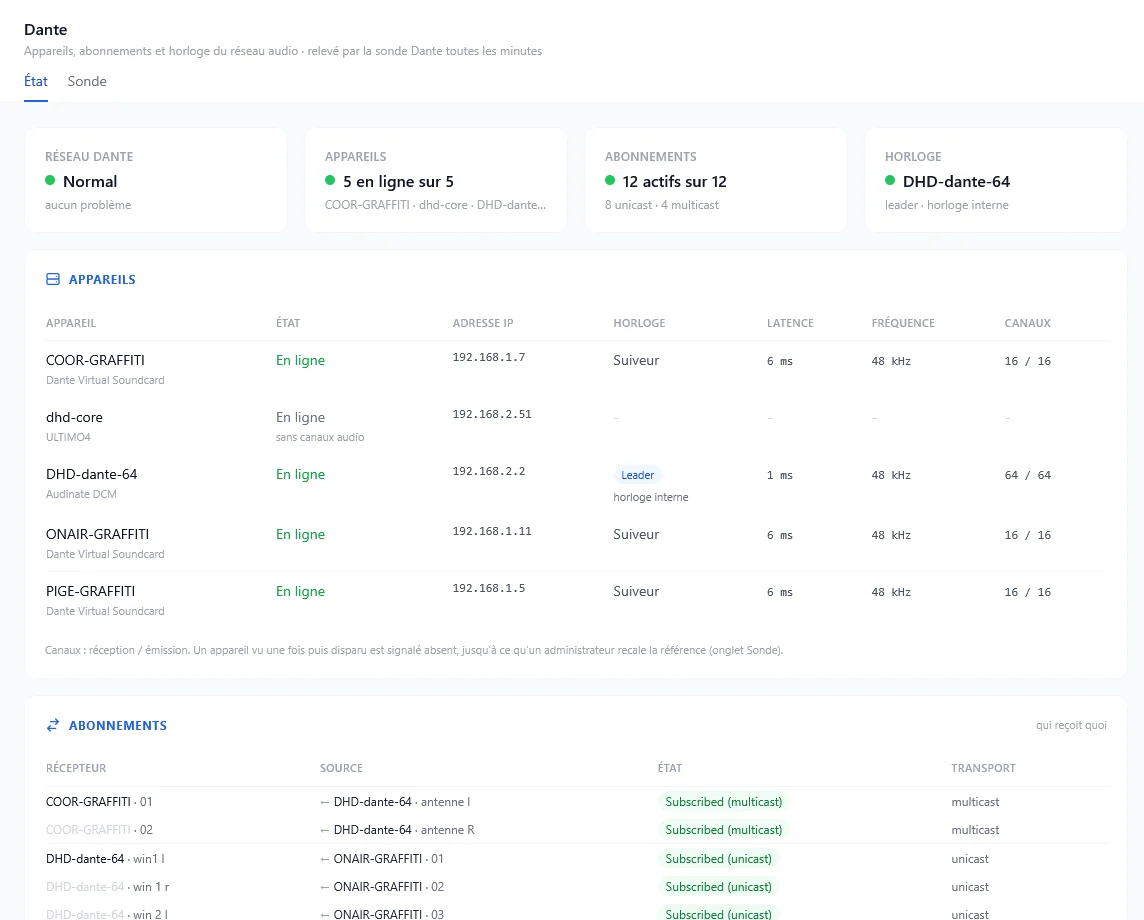
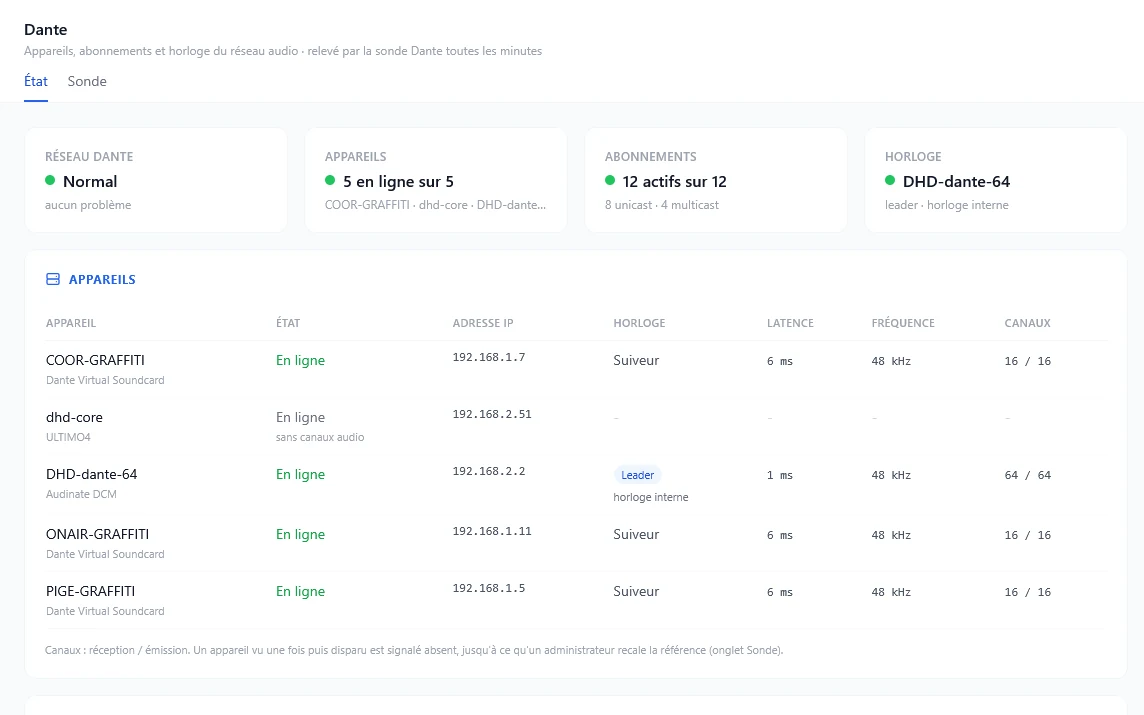
docs: project website and LICENSE file

diff --git a/site/index.html b/site/index.html
@@ -108,13 +108,26 @@
   .alerts p { margin: 0; }
 
   /* ── Galerie ── */
-  .gallery { display: grid; grid-template-columns: 1.15fr 1fr; gap: 28px; align-items: start; }
-  .gallery figure { margin: 0; }
-  .gallery img { border-radius: var(--radius-s); border: 1px solid var(--line); }
-  .gallery figcaption { color: var(--muted); font-size: .95rem; margin-top: 10px; }
-  .gallery figcaption strong { color: var(--ink); font-weight: 650; }
-  .stack { display: grid; gap: 28px; }
-  @media (max-width: 860px) { .gallery { grid-template-columns: 1fr; } }
+  /* ── Carrousel : une capture à la fois, choisie par onglet ou flèches ── */
+  .tabs { display: flex; flex-wrap: wrap; gap: 8px; margin: 0 0 16px; }
+  .tabs button { font: inherit; font-size: .95rem; font-weight: 600; color: var(--muted); background: var(--surface);
+    border: 1px solid var(--line); border-radius: 999px; padding: 7px 16px; cursor: pointer; }
+  .tabs button:hover { color: var(--ink); border-color: var(--tick-major); }
+  .tabs button[aria-selected="true"] { background: var(--accent); border-color: var(--accent); color: #fff; }
+  .carousel { position: relative; }
+  .slide { display: none; margin: 0; }
+  .slide.on { display: block; }
+  .slide a { display: block; border-radius: var(--radius-l); overflow: hidden; border: 1px solid var(--line); background: #fff;
+    box-shadow: 0 24px 60px rgba(15,23,42,.12); aspect-ratio: 16 / 10; }
+  .slide img { width: 100%; height: 100%; object-fit: cover; object-position: top left; }
+  .slide figcaption { color: var(--muted); font-size: .97rem; margin-top: 14px; }
+  .slide figcaption strong { color: var(--ink); font-weight: 650; }
+  .arrow { position: absolute; top: calc(50% - 40px); width: 44px; height: 44px; border-radius: 50%; border: 1px solid var(--line);
+    background: rgba(255,255,255,.95); color: var(--ink); font-size: 1.3rem; line-height: 1; cursor: pointer;
+    box-shadow: 0 6px 18px rgba(15,23,42,.12); display: grid; place-items: center; }
+  .arrow:hover { border-color: var(--tick-major); }
+  .arrow.prev { left: -22px; } .arrow.next { right: -22px; }
+  @media (max-width: 860px) { .arrow.prev { left: 6px; } .arrow.next { right: 6px; } }
 
   /* ── Agent ── */
   .agent { display: grid; grid-template-columns: 1fr 1fr; gap: 40px; align-items: start; }
@@ -139,7 +152,7 @@
   pre .c { color: #94a3b8; }
   @media (max-width: 860px) { .install { grid-template-columns: 1fr; } }
 
-  .install > *, .agent > *, .gallery > *, .path > * { min-width: 0; }   /* le bloc de commandes défile au lieu d'élargir la page */
+  .install > *, .agent > *, .path > * { min-width: 0; }   /* le bloc de commandes défile au lieu d'élargir la page */
   footer { margin: 110px 0 0; padding: 30px 0 46px; border-top: 1px solid var(--line); color: var(--muted); font-size: .92rem; }
   footer p { margin: 0 0 6px; }
   footer a { color: var(--ink); }
@@ -221,27 +234,29 @@
     </div>
   </section>
 
-  <section aria-labelledby="t-dante">
-    <h2 id="t-dante"><span lang="fr">Le réseau Dante, enfin visible sans Dante Controller.</span><span lang="en">The Dante network, visible without Dante Controller.</span></h2>
-    <p class="intro">
-      <span lang="fr">Un PC du studio lit le réseau en lecture seule avec la bibliothèque libre netaudio et envoie l'état à BL-RMO. Rien à brancher sur le réseau audio, rien à configurer sur les appareils.</span>
-      <span lang="en">A studio PC reads the network, read-only, with the open-source netaudio library and sends its state to BL-RMO. Nothing to plug into the audio network, nothing to set up on the devices.</span>
-    </p>
-    <div class="gallery">
-      <figure>
-        <img src="img/dante.webp" width="1144" height="920" loading="lazy" alt="Page Dante : cinq appareils en ligne, douze abonnements actifs, horloge DHD-dante-64 leader">
-        <figcaption><strong><span lang="fr">Appareils et abonnements.</span><span lang="en">Devices and subscriptions.</span></strong> <span lang="fr">Un appareil ou une route qui disparaît est signalé.</span><span lang="en">A device or route that disappears is flagged.</span></figcaption>
+  <section aria-labelledby="t-pages">
+    <h2 id="t-pages"><span lang="fr">Une page par domaine, toujours à jour.</span><span lang="en">One page per domain, always up to date.</span></h2>
+    <p class="intro"><span lang="fr">La chaîne de diffusion, le réseau Dante et le parc ont chacun leur page, avec leur état, leur journal et leurs alertes. Cliquez sur une capture pour l'agrandir.</span><span lang="en">The broadcast chain, the Dante network and the assets each have their own page, with status, log and alerts. Click a screenshot to enlarge it.</span></p>
+    <div class="tabs" role="tablist" aria-label="Captures">
+      <button type="button" role="tab" id="tab-chain" aria-controls="slide-chain" aria-selected="true"><span lang="fr">Chaîne</span><span lang="en">Chain</span></button>
+      <button type="button" role="tab" id="tab-dante" aria-controls="slide-dante" aria-selected="false" tabindex="-1">Dante</button>
+      <button type="button" role="tab" id="tab-park" aria-controls="slide-park" aria-selected="false" tabindex="-1"><span lang="fr">Parc</span><span lang="en">Assets</span></button>
+    </div>
+    <div class="carousel">
+      <figure class="slide on" id="slide-chain" role="tabpanel" aria-labelledby="tab-chain">
+        <a href="img/chain.webp" target="_blank" rel="noopener"><img src="img/chain.webp" width="1470" height="919" alt="Synoptique de la chaîne : studio, faisceau 5 GHz, pylône et réception FM, tous les appareils en vert"></a>
+        <figcaption><strong><span lang="fr">Chaîne de diffusion.</span><span lang="en">Broadcast chain.</span></strong> <span lang="fr">Du studio à l'antenne, chaque appareil et chaque liaison, son état et depuis quand.</span><span lang="en">From studio to air, every device and every link, its state and since when.</span></figcaption>
       </figure>
-      <div class="stack">
-        <figure>
-          <img src="img/dante-levels.webp" width="1144" height="920" loading="lazy" alt="Niveaux Dante : sorties antenne et PGM 2 à -1 dB, entrées win 1 avec signal, autres canaux muets">
-          <figcaption><strong><span lang="fr">Niveaux par canal.</span><span lang="en">Per-channel levels.</span></strong> <span lang="fr">Pour voir d'un coup d'œil si un canal porte du signal.</span><span lang="en">To see at a glance whether a channel carries signal.</span></figcaption>
-        </figure>
-        <figure>
-          <img src="img/park.webp" width="1144" height="600" loading="lazy" alt="Page Parc : trois PC de production allumés, processeur et disques">
-          <figcaption><strong><span lang="fr">Les PC du studio.</span><span lang="en">Studio PCs.</span></strong> <span lang="fr">Allumé depuis quand, processeur, disques.</span><span lang="en">On since when, processor, disks.</span></figcaption>
-        </figure>
-      </div>
+      <figure class="slide" id="slide-dante" role="tabpanel" aria-labelledby="tab-dante">
+        <a href="img/dante.webp" target="_blank" rel="noopener"><img src="img/dante.webp" width="1144" height="715" loading="lazy" alt="Page Dante : cinq appareils en ligne, douze abonnements actifs, horloge DHD-dante-64 leader"></a>
+        <figcaption><strong>Dante.</strong> <span lang="fr">Appareils, abonnements, horloge et niveaux par canal, lus en lecture seule par netaudio depuis un PC du studio. Rien à configurer sur les appareils.</span><span lang="en">Devices, subscriptions, clock and per-channel levels, read-only through netaudio from a studio PC. Nothing to set up on the devices.</span></figcaption>
+      </figure>
+      <figure class="slide" id="slide-park" role="tabpanel" aria-labelledby="tab-park">
+        <a href="img/park.webp" target="_blank" rel="noopener"><img src="img/park.webp" width="1144" height="715" loading="lazy" alt="Page Parc : trois PC de production allumés, NAS normal, site web en ligne"></a>
+        <figcaption><strong><span lang="fr">Parc.</span><span lang="en">Assets.</span></strong> <span lang="fr">PC du studio, NAS et sites web : allumé depuis quand, processeur, disques.</span><span lang="en">Studio PCs, NAS and websites: on since when, processor, disks.</span></figcaption>
+      </figure>
+      <button type="button" class="arrow prev" aria-label="Capture précédente / Previous">&#8249;</button>
+      <button type="button" class="arrow next" aria-label="Capture suivante / Next">&#8250;</button>
     </div>
   </section>
 
@@ -332,6 +347,30 @@ bash install.sh</code></pre>
       dial.style.setProperty('--from', (x(hi - 4 * (hi - lo) / 20.5) - nx) + 'px');   // unités du dessin SVG
       requestAnimationFrame(() => requestAnimationFrame(() => dial.classList.add('tuned')));
     }
+  })();
+
+  // ── Carrousel : onglets, flèches et touches gauche / droite ──
+  (function () {
+    const tabs = [...document.querySelectorAll('.tabs [role="tab"]')];
+    let cur = 0;
+    function show(i, focus) {
+      cur = (i + tabs.length) % tabs.length;
+      tabs.forEach((t, k) => {
+        const on = k === cur;
+        t.setAttribute('aria-selected', on); t.tabIndex = on ? 0 : -1;
+        document.getElementById(t.getAttribute('aria-controls')).classList.toggle('on', on);
+      });
+      if (focus) tabs[cur].focus();
+    }
+    tabs.forEach((t, k) => {
+      t.addEventListener('click', () => show(k));
+      t.addEventListener('keydown', e => {
+        if (e.key === 'ArrowRight') { e.preventDefault(); show(cur + 1, true); }
+        if (e.key === 'ArrowLeft') { e.preventDefault(); show(cur - 1, true); }
+      });
+    });
+    document.querySelector('.arrow.prev').addEventListener('click', () => show(cur - 1));
+    document.querySelector('.arrow.next').addEventListener('click', () => show(cur + 1));
   })();
 </script>
 </body>
